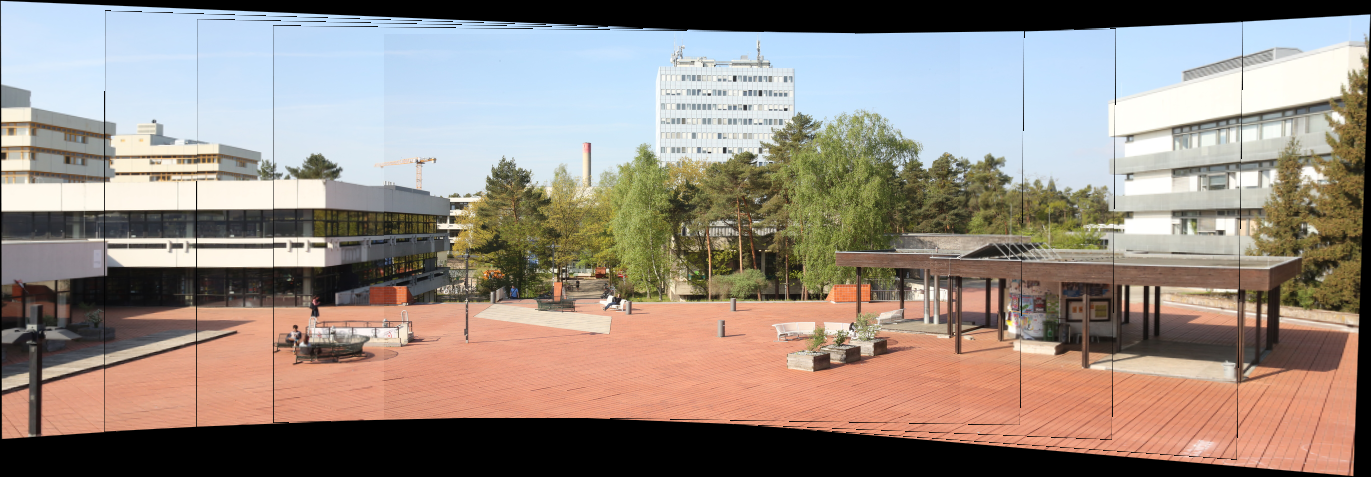
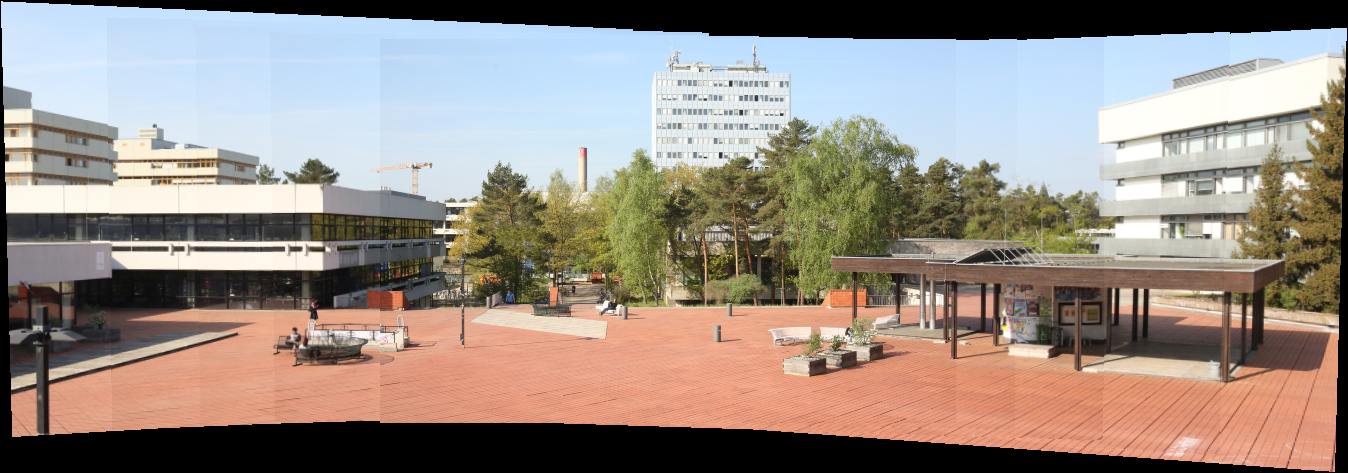
stitcher updated, exercise 2 completed

diff --git a/Panorama Stitching/src/stitcher.py b/Panorama Stitching/src/stitcher.py
@@ -79,14 +79,17 @@ def createStichedImage(image_data_dir):
         ## Project the image onto the reference image plane
         img2 = image_data_dir[i]
         tmp = np.zeros([roi[3], roi[2], 3])
-        tmp = cv2.warpPerspective(img2['img'], img2['HtoReference'], (tmp.shape[1], tmp.shape[0]), cv2.INTER_LINEAR)
+
+        rgba_img = cv2.cvtColor(img2['img'], cv2.COLOR_RGB2RGBA)
+        rgba_img[:, :, 3] = 255
+
+        tmp = cv2.warpPerspective(rgba_img, img2['HtoReference'], (tmp.shape[1], tmp.shape[0]), cv2.INTER_NEAREST)
 
         ## Added it to the output image
         for y in range(stitchedImage.shape[0]):
             for x in range(stitchedImage.shape[1]):
-                if (x < stitchedImage.shape[1] and y < stitchedImage.shape[0] and np.array_equal(
-                        stitchedImage[y, x, :], np.array([0, 0, 0]))):
-                    stitchedImage[y, x] = tmp[y, x, :]
+                if (tmp[y, x, 3] == 255 and np.array_equal(stitchedImage[y, x], np.array([0, 0, 0]))):
+                    stitchedImage[y, x] = tmp[y, x, 0:3]
 
         print("Added image " + str(i) + " - " + str(img2['file']) + ".")
         print("Press any key to continue...")
